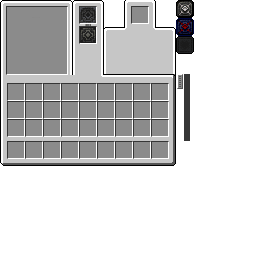
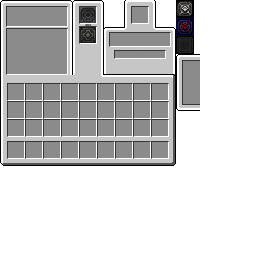
New UI Styles

Changed region(s): [[0.4062, 0.125, 0.6875, 0.25], [0.6875, 0.1875, 0.7812, 0.5625], [0.0312, 0.0938, 0.2812, 0.125]]

diff --git a/src/main/java/sypztep/dominatus/client/screen/RefineScreen.java b/src/main/java/sypztep/dominatus/client/screen/RefineScreen.java
@@ -43,9 +43,13 @@ public final class RefineScreen
 //            ModItems.MOONLIGHT_CRESCENT.getDefaultStack()
 //    );
 
-    private static final int STAT_START_X = 10; // Left side position
-    private static final int STAT_START_Y = 20; // Starting Y position
-    private static final int STAT_SPACING = 10; // Spacing between stats
+    private static final int LEFT_LABEL_X = -13;
+    private static final int LEFT_LABEL_START_Y = 35;
+    private static final int STAT_SPACING = 10;
+    private static final int VALUE_X = 10;
+    // Constants for main area values
+    private static final int MAIN_VALUE_X = 10;
+    private static final int MAIN_VALUE_START_Y = 30;
 
     public RefineScreen(RefineScreenHandler handler, PlayerInventory playerInventory, Text title) {
         super(handler, playerInventory, Text.translatable(Dominatus.MODID + ".refine_screen"));
@@ -114,6 +118,11 @@ public final class RefineScreen
         }
     }
 
+    @Override
+    public boolean isMouseOver(double mouseX, double mouseY) {
+        return super.isMouseOver(mouseX, mouseY);
+    }
+
     private void drawSuccessRate(DrawContext context, int x, int y, float scale, int currentLevel) {
         int failStack = ModEntityComponents.FAILSTACK_COMPONENT.get(handler.getPlayer()).getFailstack();
         double successRate = RefinementCalculator.calculateSuccessRate(currentLevel, failStack) * 100;
@@ -124,9 +133,9 @@ public final class RefineScreen
         context.drawCenteredTextWithShadow(
                 this.textRenderer,
                 Text.of("Rate: " + formattedSuccessRate),
-                x + 138,
-                y - 35,
-                getSuccessRateColor(successRate)
+                x + 144,
+                y - 30,
+                0xE0E0E0
         );
         context.getMatrices().pop();
     }
@@ -137,7 +146,7 @@ public final class RefineScreen
         context.drawCenteredTextWithShadow(
                 this.textRenderer,
                 Text.of("Reach to max Refine Lvl!"),
-                x + 138,
+                x + 140,
                 y - 35,
                 0xFFD700 // Gold color for max level
         );
@@ -149,16 +158,10 @@ public final class RefineScreen
         context.drawCenteredTextWithShadow(
                 this.textRenderer,
                 Text.of("Failstack: " + failstack),
-                138,
-                32,
+                140,
+                36,
                 getFailstackColor(failstack)
         );
-    }
-
-    private int getSuccessRateColor(double rate) {
-        if (rate >= 90.0) return 0x00FF00; // Green
-        if (rate >= 50.0) return 0xFFFF00; // Yellow
-        return 0xFF6B6B; // Red
     }
 
     private int getFailstackColor(int failstack) {
@@ -171,6 +174,8 @@ public final class RefineScreen
         int i = (this.width - this.backgroundWidth) / 2;
         int j = (this.height - this.backgroundHeight) / 2;
         context.drawTexture(RenderLayer::getGuiTextured, TEXTURE, i, j, 0, 0,175,166, 256,256);
+        // Small box area for hold extra like EVA ACC DMG DEF
+        context.drawTexture(RenderLayer::getGuiTextured, TEXTURE,i - 23,j + 24, 176,54,24,57, 256,256);
     }
 
     @Override
@@ -222,87 +227,92 @@ public final class RefineScreen
         DominatusItemEntry entry = DominatusItemEntry.getDominatusItemData(stack).orElse(null);
         if (entry == null) return;
 
-        // Draw level comparison with scaling
-        float scale = 0.8f; // Reduce text scale
-        context.getMatrices().push();
+        // Draw level info at the top of main area
+        drawLevelInfo(context, currentLevel);
 
-        context.getMatrices().scale(scale, scale, 1.0f);
-        String levelText = String.format("%d → %d", currentLevel, currentLevel + 1);
-        float scaledX = STAT_START_X / scale;
-        float scaledY = STAT_START_Y / scale;
-        context.drawTextWithShadow(textRenderer, Text.literal("Refine Level"),
-                (int)scaledX, (int)scaledY - 13, 0xFFFFFF);
-        context.drawTextWithShadow(textRenderer, Text.literal(levelText),
-                (int)scaledX, (int)scaledY, 0xFFFFFF);
-        context.getMatrices().pop();
-
-        int y = STAT_START_Y + STAT_SPACING + 5;
-
-        // Draw stat comparisons
-        drawStatComparison(context, "ACC",
-                currentRef.accuracy(),
-                RefinementCalculator.calculateStatValue(currentLevel + 1, entry.maxLvl(),
-                        entry.startAccuracy(), entry.endAccuracy()),
-                y);
-        y += STAT_SPACING;
-
-        drawStatComparison(context, "EVA",
-                currentRef.evasion(),
-                RefinementCalculator.calculateStatValue(currentLevel + 1, entry.maxLvl(),
-                        entry.startEvasion(), entry.endEvasion()),
-                y);
-        y += STAT_SPACING;
-
-        drawStatComparison(context, "DMG",
-                currentRef.damage(),
-                RefinementCalculator.calculateStatValue(currentLevel + 1, entry.maxLvl(),
-                        entry.starDamage(), entry.endDamage()),
-                y);
-        y += STAT_SPACING;
-
-        drawStatComparison(context, "DEF",
-                currentRef.protection(),
-                RefinementCalculator.calculateStatValue(currentLevel + 1, entry.maxLvl(),
-                        entry.startProtection(), entry.endProtection()),
-                y);
+        // Draw stats with aligned values
+        drawStatsWithValues(context, currentRef, currentLevel, entry);
     }
 
-    private void drawStatComparison(DrawContext context, String statName, Number currentValue, Number nextValue, int y) {
-        float scale = 0.55f;
+    private void drawStatsWithValues(DrawContext context, Refinement currentRef, int currentLevel, DominatusItemEntry entry) {
+        float scale = 0.65f;
         context.getMatrices().push();
         context.getMatrices().scale(scale, scale, 1.0f);
 
-        String text;
-        int color;
-        double diff = nextValue.doubleValue() - currentValue.doubleValue();
+        // Stats data array to hold all stat pairs
+        StatPair[] stats = {
+                new StatPair("ACC:", currentRef.accuracy(),
+                        RefinementCalculator.calculateStatValue(currentLevel + 1, entry.maxLvl(),
+                                entry.startAccuracy(), entry.endAccuracy())),
+                new StatPair("EVA:", currentRef.evasion(),
+                        RefinementCalculator.calculateStatValue(currentLevel + 1, entry.maxLvl(),
+                                entry.startEvasion(), entry.endEvasion())),
+                new StatPair("DMG:", currentRef.damage(),
+                        RefinementCalculator.calculateStatValue(currentLevel + 1, entry.maxLvl(),
+                                entry.starDamage(), entry.endDamage())),
+                new StatPair("DEF:", currentRef.protection(),
+                        RefinementCalculator.calculateStatValue(currentLevel + 1, entry.maxLvl(),
+                                entry.startProtection(), entry.endProtection()))
+        };
 
-        if (diff > 0) {
-            color = 0x00FF00;
-            text = String.format("%s: %s→%s (%s)", // Fixed spacing here
-                    statName,
-                    formatValue(currentValue),
-                    formatValue(nextValue),
-                    "+" + formatValue(diff));
-        } else if (diff < 0) {
-            color = 0xFF0000;
-            text = String.format("%s: %s→%s (%s)", // Fixed spacing here
-                    statName,
-                    formatValue(currentValue),
-                    formatValue(nextValue),
-                    formatValue(diff));
-        } else {
-            color = 0xFFFFFF;
-            text = String.format("%s: %s→%s",
-                    statName,
-                    formatValue(currentValue),
-                    formatValue(nextValue));
+        float baseY = LEFT_LABEL_START_Y / scale;
+
+        // Draw each stat pair
+        for (int i = 0; i < stats.length; i++) {
+            float currentY = baseY + (i * STAT_SPACING / scale);
+
+            // Draw label in left box
+            context.drawTextWithShadow(textRenderer,
+                    Text.literal(stats[i].label),
+                    (int)(LEFT_LABEL_X / scale),
+                    (int)currentY,
+                    0xFFFFFF);
+
+            // Draw value in main area
+            drawStatValue(context,
+                    stats[i].current,
+                    stats[i].next,
+                    (int)(VALUE_X / scale),
+                    (int)currentY);
         }
 
-        float scaledX = STAT_START_X / scale;
-        float scaledY = y / scale;
+        context.getMatrices().pop();
+    }
+
+    // Helper record to store stat information
+    private record StatPair(String label, Number current, Number next) {}
+
+    private void drawStatValue(DrawContext context, Number currentValue, Number nextValue, int x, int y) {
+        double diff = nextValue.doubleValue() - currentValue.doubleValue();
+        int color = diff > 0 ? 0x00FF00 : (diff < 0 ? 0xFF0000 : 0xFFFFFF);
+
+        String text = String.format("%s→%s",
+                formatValue(currentValue),
+                formatValue(nextValue));
+
+        if (diff != 0) {
+            text += String.format(" (%s%s)",
+                    diff > 0 ? "+" : "",
+                    formatValue(diff));
+        }
 
         context.drawTextWithShadow(textRenderer, Text.literal(text),
-                (int)scaledX, (int)scaledY, color);
+                x, y, color);
+    }
+
+    private void drawLevelInfo(DrawContext context, int currentLevel) {
+        float scale = 0.8f;
+        context.getMatrices().push();
+        context.getMatrices().scale(scale, scale, 1.0f);
+
+        float scaledX = MAIN_VALUE_X / scale;
+        float scaledY = (MAIN_VALUE_START_Y - 15) / scale;
+
+        context.drawTextWithShadow(textRenderer, Text.literal("Refine Level"),
+                (int)scaledX, (int)scaledY - 8, 0xFFFFFF);
+        context.drawTextWithShadow(textRenderer, Text.literal(
+                        String.format("%d → %d", currentLevel, currentLevel + 1)),
+                (int)scaledX, (int)scaledY + 4, 0xFFFFFF);
 
         context.getMatrices().pop();
     }
